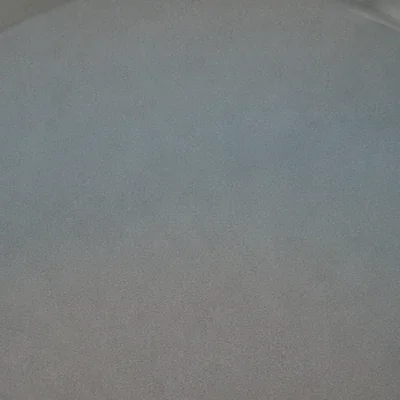
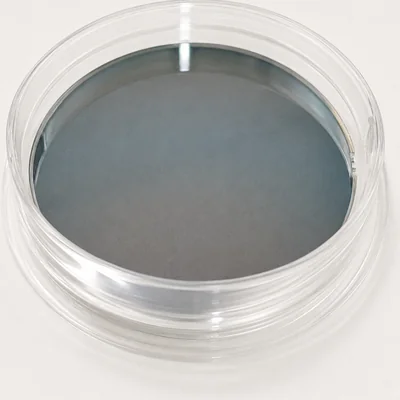
fix: 유실 복구 — P1 인셋 접시 사진·h-16(0067) + 분석 EDS·Hall·PPMS(0068)

diff --git a/src/lib/processes.ts b/src/lib/processes.ts
@@ -37,8 +37,8 @@ export const MEASUREMENTS: ProcessDef[] = [
   { name: 'SheetResistance', unit: null, materials: [], isMeasurement: true },
   { name: 'Ellipsometer', unit: null, materials: [], isMeasurement: true },
   // Technology '분석·측정' 12종(물질 7 + 소자 5)을 선택지로 그대로 노출 — analysis 컬렉션 표기와 동일
-  { name: 'SEM', unit: null, materials: [], isMeasurement: true },
-  { name: 'TEM', unit: null, materials: [], isMeasurement: true },
+  { name: 'SEM (include EDS)', unit: null, materials: [], isMeasurement: true },
+  { name: 'TEM (include EDS)', unit: null, materials: [], isMeasurement: true },
   { name: 'XRD', unit: null, materials: [], isMeasurement: true },
   { name: 'XPS', unit: null, materials: [], isMeasurement: true },
   { name: 'UPS', unit: null, materials: [], isMeasurement: true },
@@ -49,6 +49,8 @@ export const MEASUREMENTS: ProcessDef[] = [
   { name: 'Pulse', unit: null, materials: [], isMeasurement: true },
   { name: 'Ferroelectric', unit: null, materials: [], isMeasurement: true },
   { name: 'Piezoelectric', unit: null, materials: [], isMeasurement: true },
+  { name: 'Hall', unit: null, materials: [], isMeasurement: true },
+  { name: 'PPMS', unit: null, materials: [], isMeasurement: true },
 ];
 
 // 제품 ID(products/*.json 파일명) → 물질 소재 분류 매핑.
